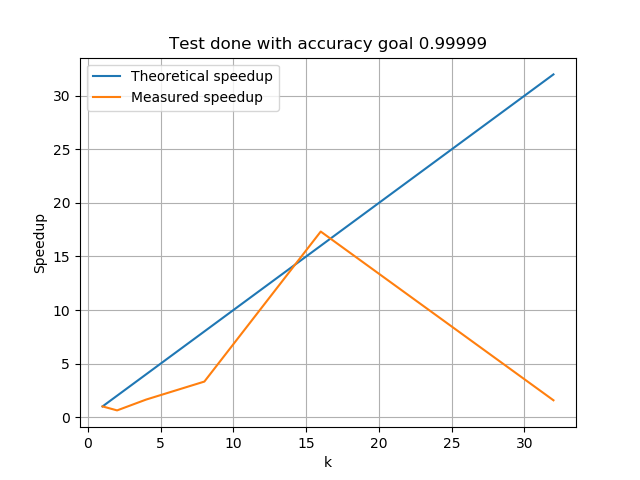
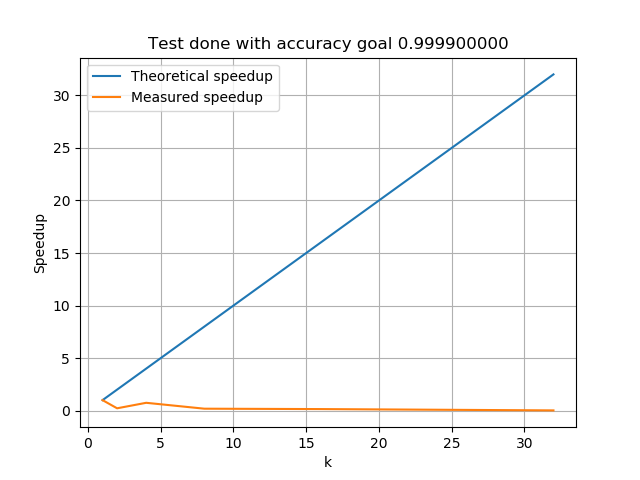
Edited title string so it changes with accuracy argument

diff --git a/Assignment 3/mp-pi-montecarlo-pool.py b/Assignment 3/mp-pi-montecarlo-pool.py
@@ -118,7 +118,8 @@ def print_speedup(args):
         measure_list_y.append(actual_speedup)
         k = k * 2
         args.workers = k
-    ax.set(xlabel='k', ylabel='Speedup', title='Test done with accuracy goal 0.99999')
+    title_string = 'Test done with accuracy goal %1.9f' % args.accuracy
+    ax.set(xlabel='k', ylabel='Speedup', title=title_string)
     ax.grid()
     ax.plot(theory_list_x, theory_list_y, label='Theoretical speedup')
     ax.plot(measure_list_x, measure_list_y, label='Measured speedup')
